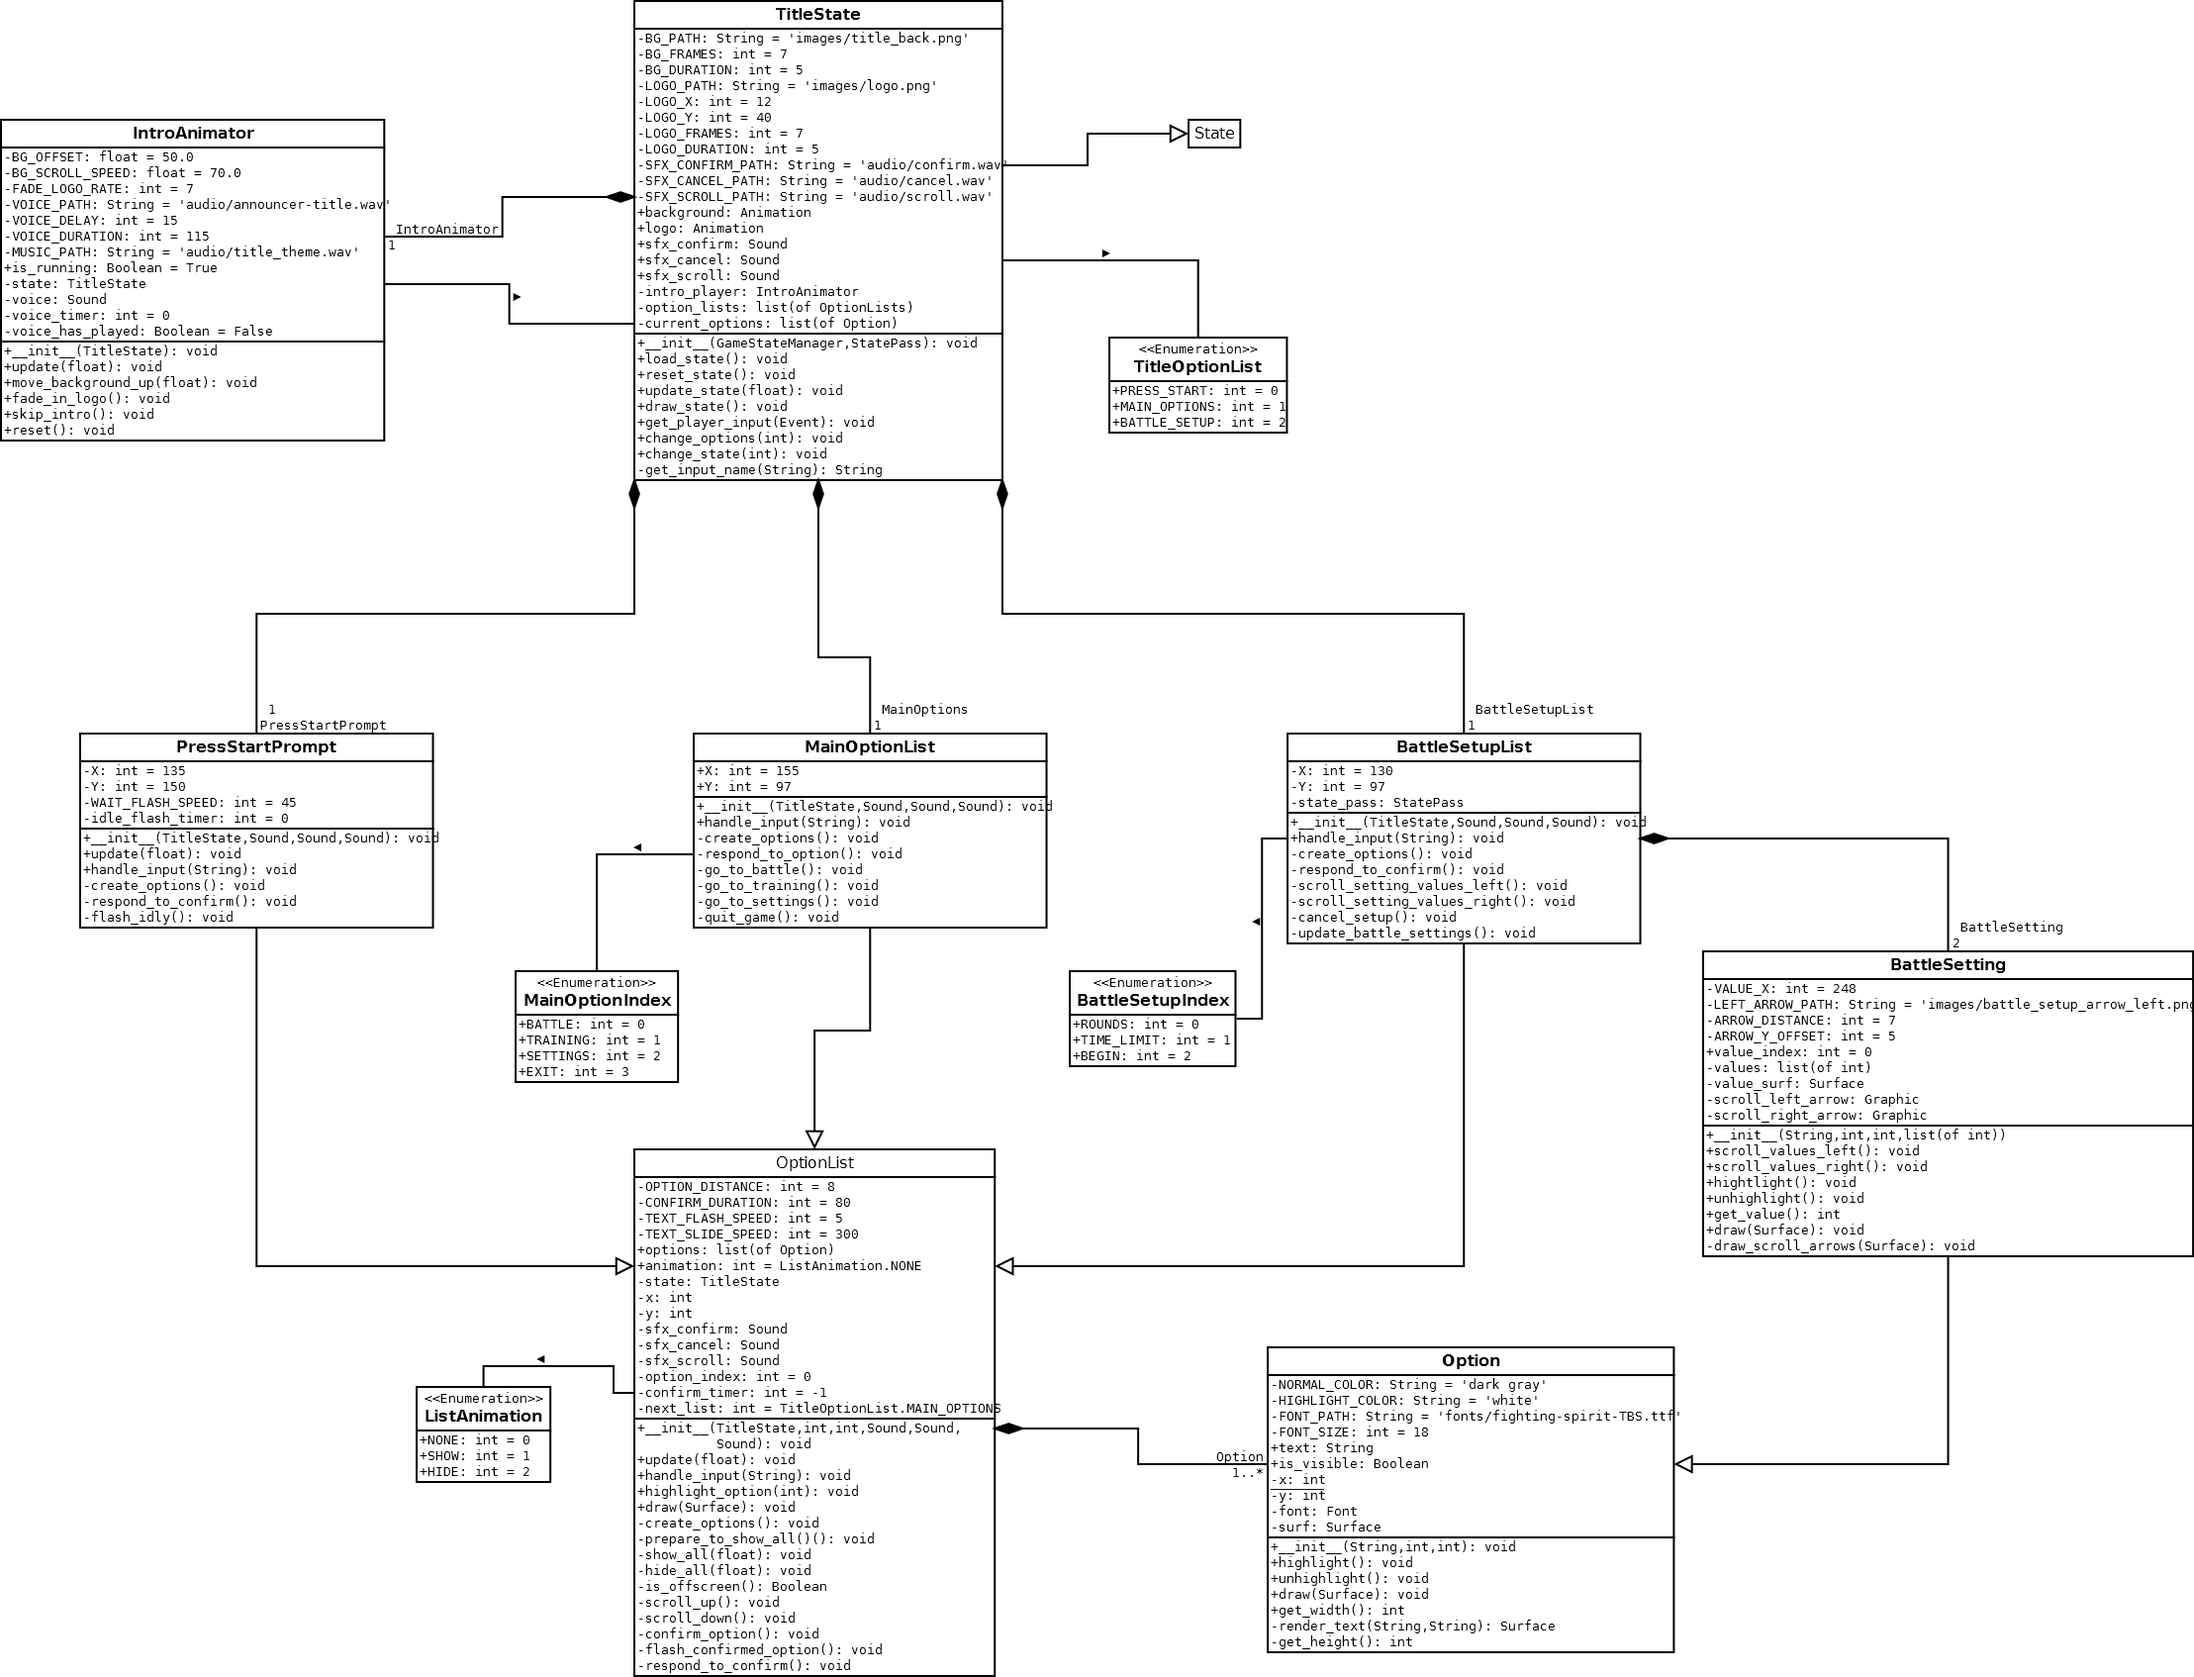
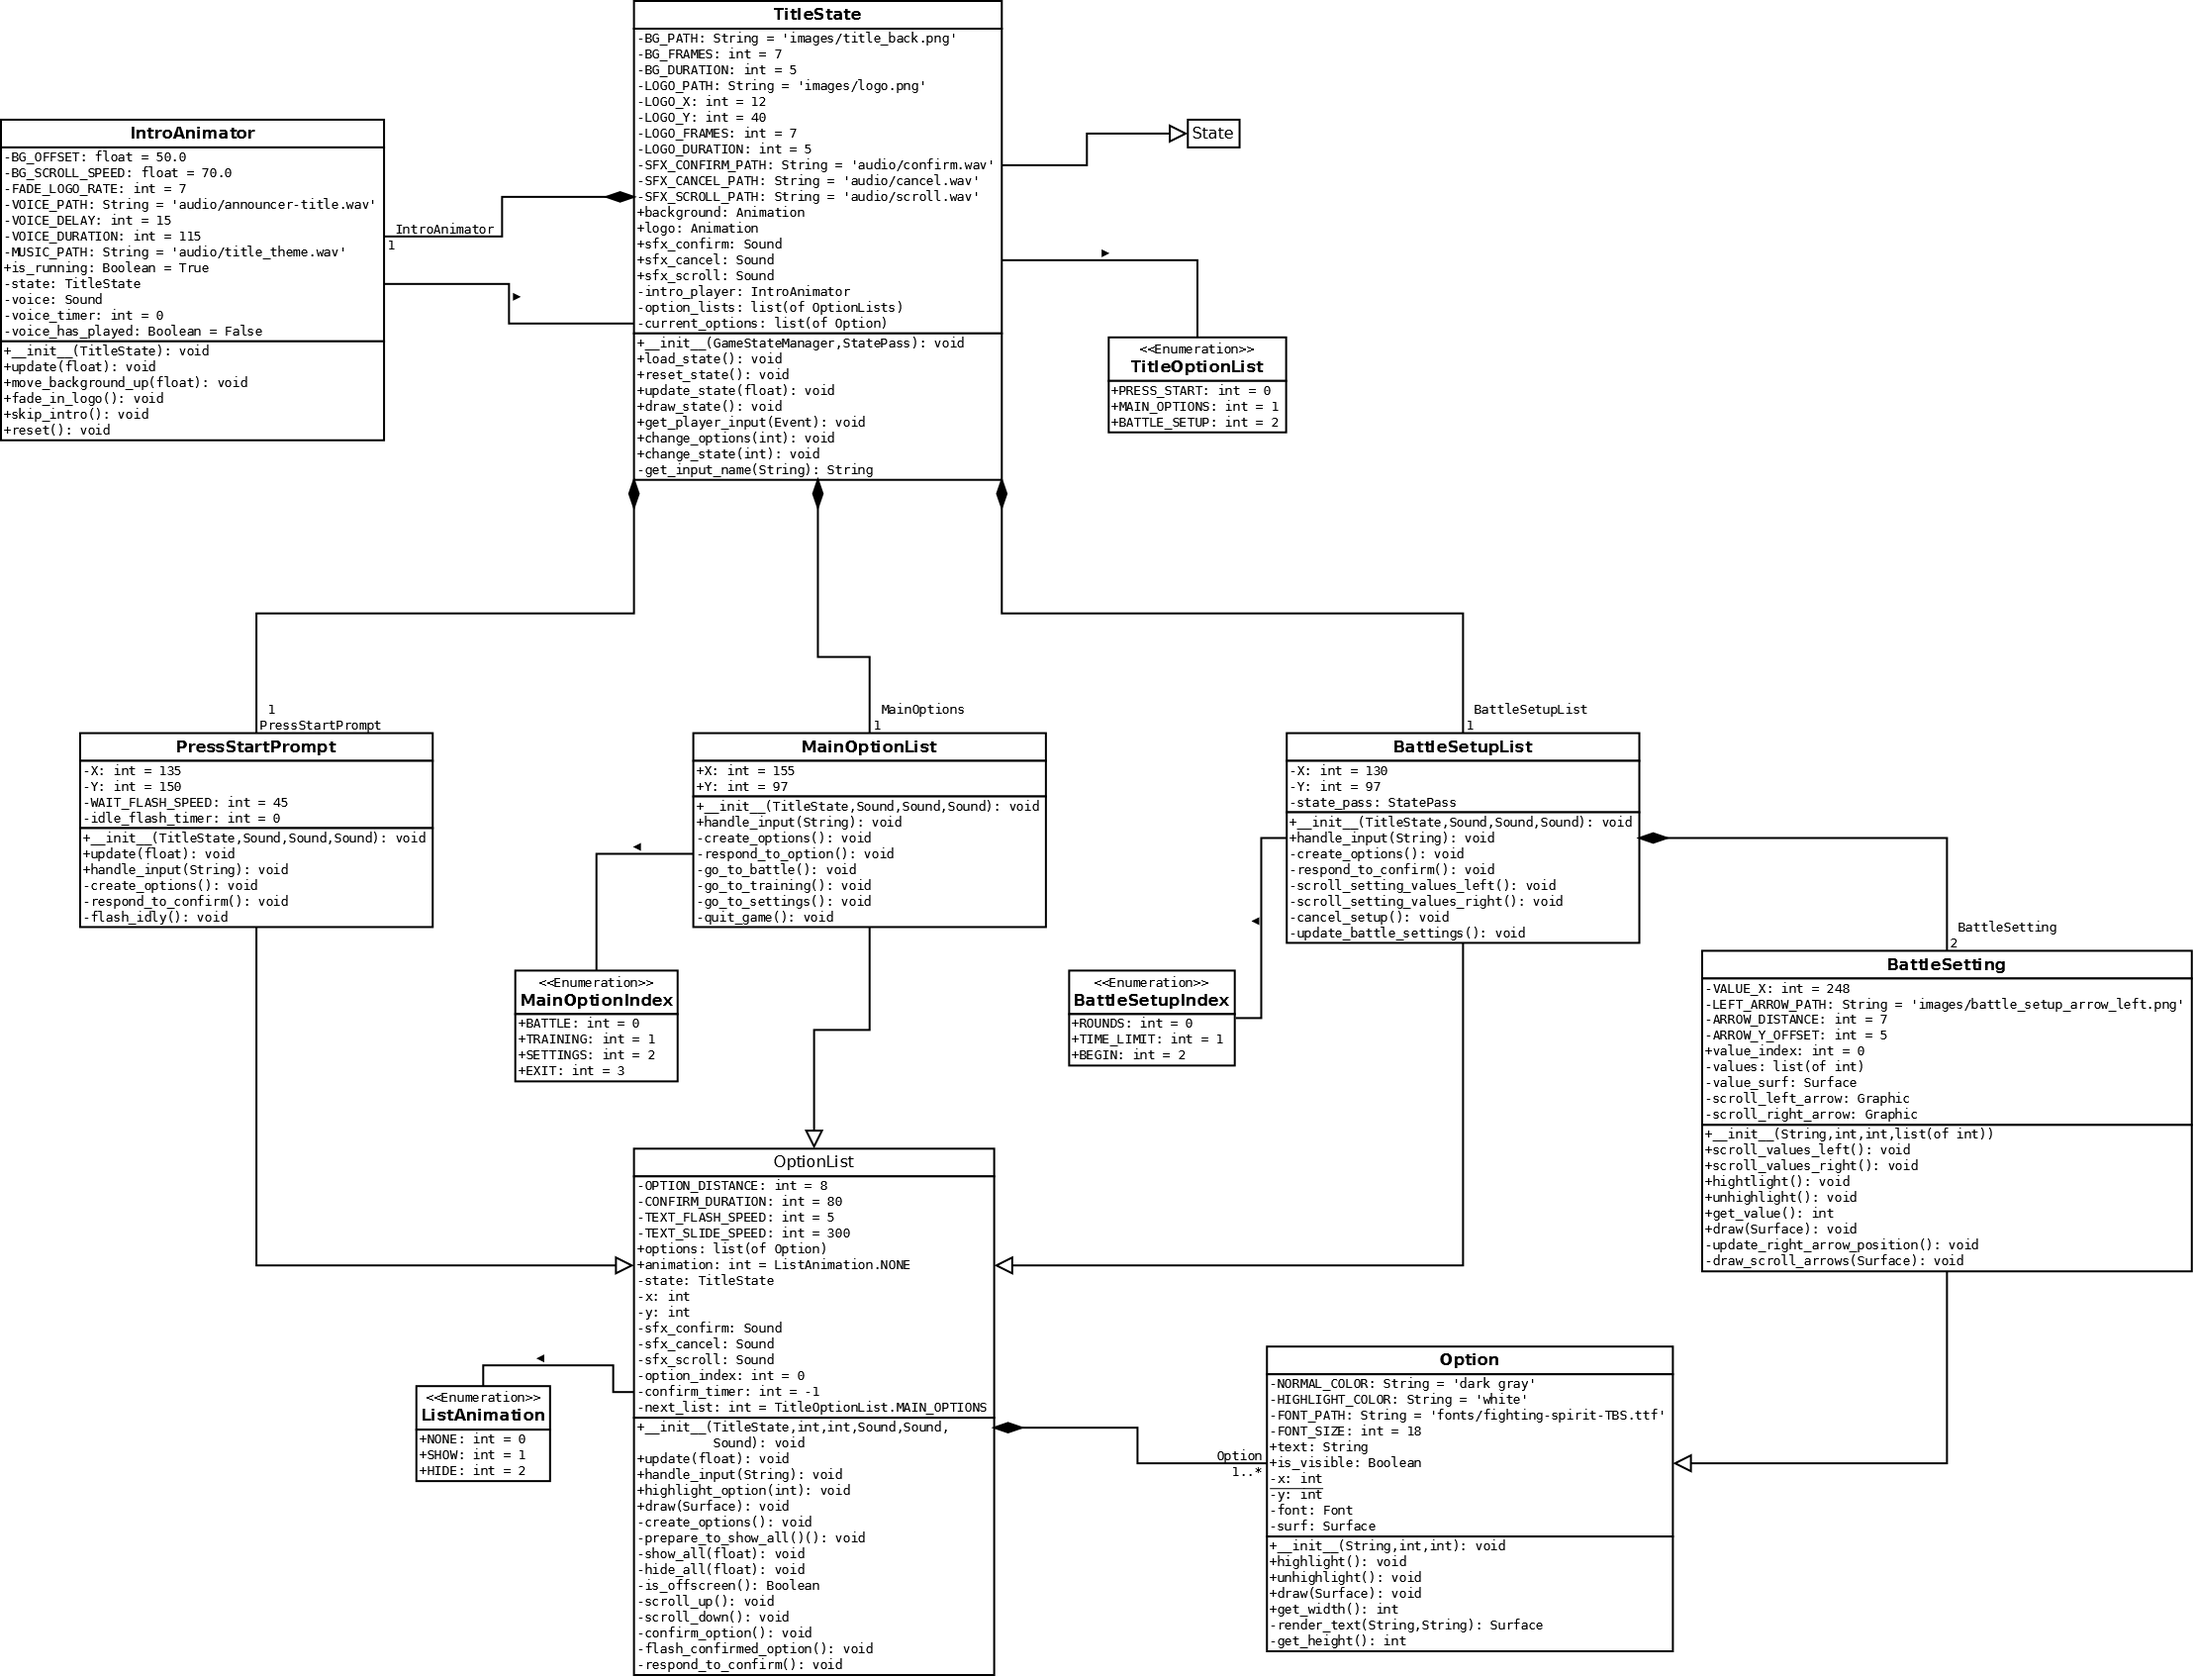
BattleSetting: Dynamic repos of right arrow
To prevent overlapping of the value text and the scroll right arrow,
the arrow will now shift its horizontal position whenever a new value
is selected.

diff --git a/lib/game_states/title_state_new.py b/lib/game_states/title_state_new.py
@@ -913,6 +913,7 @@ class BattleSetting(Option):
             self.value_index -= 1
             self.value_surf = self.render_text(
                 str(self.values[self.value_index]), self.HIGHLIGHT_COLOR)
+            self.update_right_arrow_position()
 
     def scroll_values_right(self):
         """Select the next value for this BattleSetting."""
@@ -920,6 +921,16 @@ class BattleSetting(Option):
             self.value_index += 1
             self.value_surf = self.render_text(
                 str(self.values[self.value_index]), self.HIGHLIGHT_COLOR)
+            self.update_right_arrow_position()
+
+    def update_right_arrow_position(self):
+        """Ensure that the scroll right arrow is a set distance away
+        from the right edge of the value Surface.
+        """
+        new_x = (self.VALUE_X + self.value_surf.get_width() +
+                 self.ARROW_DISTANCE)
+        distance = new_x - self.scroll_right_arrow.exact_pos[0]
+        self.scroll_right_arrow.move(distance, 0)
 
     def highlight(self):
         """Redraw the text with an alternate color."""
